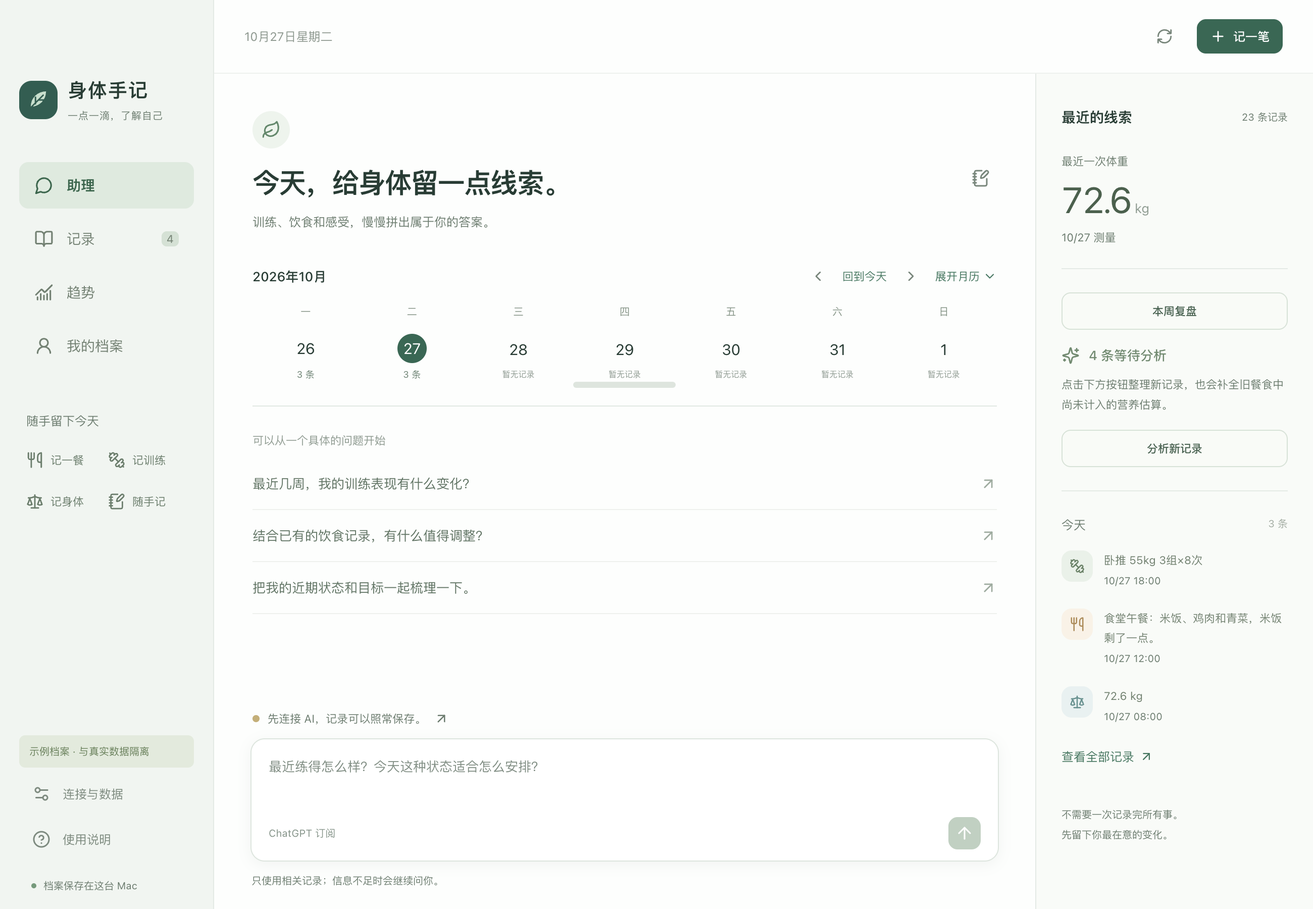
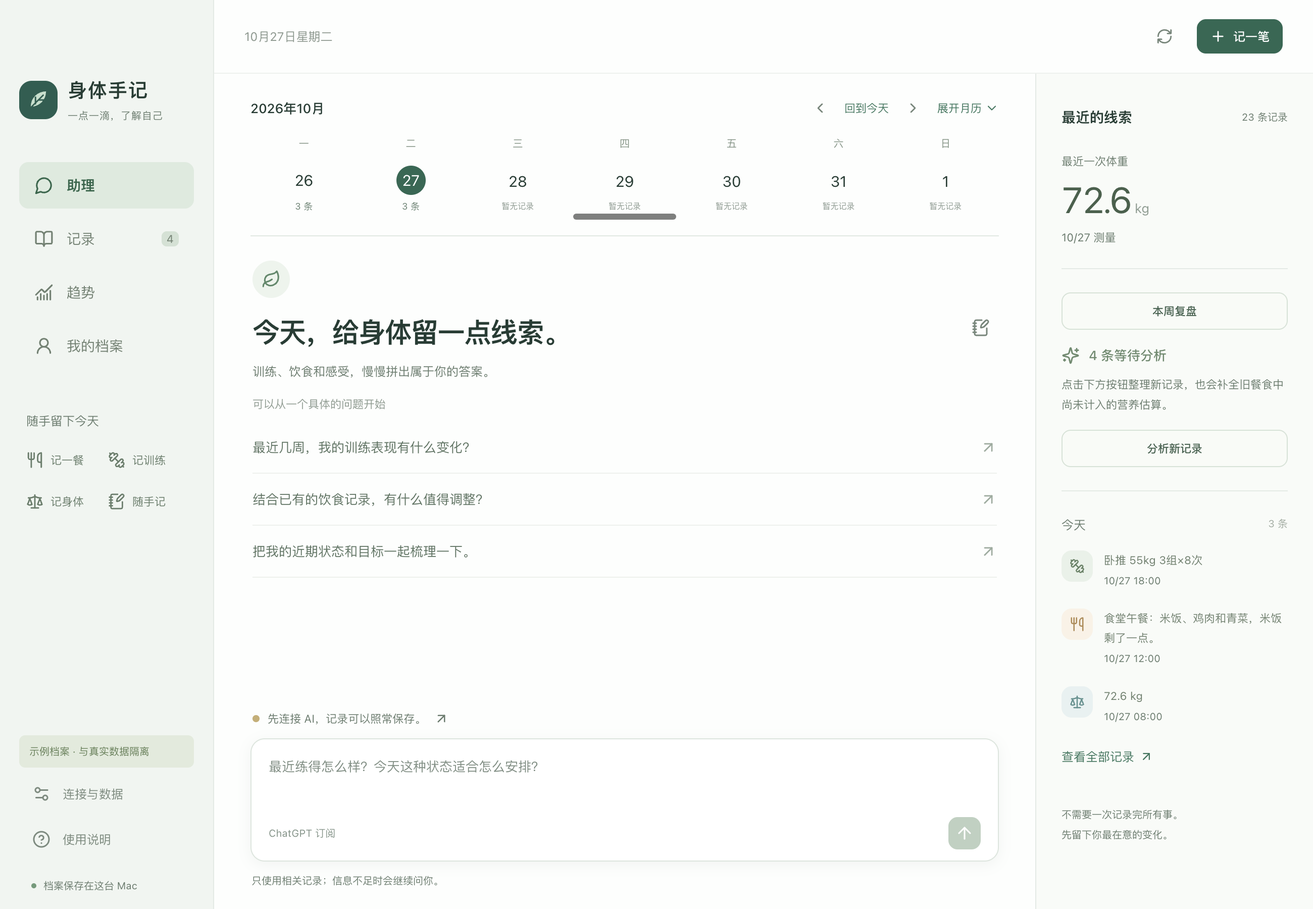
Home layout: pin calendar above chat scroll (v0.1.19)

diff --git a/src/style.css b/src/style.css
@@ -1,7 +1,7 @@
 @import url('./ui.css');
 :root{font-family:-apple-system,BlinkMacSystemFont,"PingFang SC","Hiragino Sans GB",sans-serif;color:#223d34;background:#f7faf9;font-synthesis:none;text-rendering:optimizeLegibility;-webkit-font-smoothing:antialiased;font-size:14px;font-weight:400;--ink:#223d34;--muted:#75867e;--green:#286853;--line:#e3eae5;--paper:#fff;--tint:#eaf2ed;--soft:#f4f7f5}
 *{box-sizing:border-box}body{margin:0}button,input,select,textarea{font:inherit}button{cursor:pointer;color:inherit}button:disabled{cursor:not-allowed;opacity:.45}button,a,input,textarea,select{-webkit-tap-highlight-color:transparent}button:focus-visible,a:focus-visible,input:focus-visible,textarea:focus-visible,select:focus-visible,summary:focus-visible{outline:3px solid #6da58e;outline-offset:3px}button{border:0;background:none}h1,h2,h3,p{margin-top:0}h1{font-size:29px;line-height:1.45;font-weight:600;letter-spacing:-.8px}h2{font-size:17px;font-weight:600}h3{font-size:15px;font-weight:600}p{line-height:1.8}input,select,textarea{border:1px solid #dbe5de;background:#fff;border-radius:9px;color:var(--ink);padding:11px 13px;min-width:0;outline:none}textarea{resize:vertical;width:100%;line-height:1.8}input:focus,select:focus,textarea:focus{border-color:#6a9b83}input::placeholder,textarea::placeholder{color:#93a097}input[type=checkbox]{accent-color:var(--green);width:16px;height:16px}select{cursor:pointer}summary{cursor:pointer;color:#587165;font-size:13px;padding:10px 0}.muted{color:var(--muted)}.small{font-size:12px}.small-label{font-size:12px;color:#819188}.button{display:inline-flex;align-items:center;justify-content:center;gap:7px;min-height:39px;padding:10px 16px;border-radius:9px;font-size:13px;font-weight:500;transition:background .12s}.button.primary{background:var(--green);color:white}.button.primary:hover:not(:disabled){background:#1b5140}.button.secondary{background:#fff;border:1px solid #dce5df;color:#41624f}.button.secondary:hover:not(:disabled){background:#f1f6f2}.button.small-button{min-height:34px;padding:8px 13px;font-size:12px}.text-button{display:inline-flex;align-items:center;gap:5px;color:#34785e;font-size:12px;padding:4px 0}.text-button:hover{text-decoration:underline;text-underline-offset:3px}.icon-button{width:32px;height:32px;display:inline-flex;align-items:center;justify-content:center;border-radius:8px;color:#74877a;flex-shrink:0}.icon-button:hover{background:#edf3ee}.icon-button.danger:hover{color:#aa5752;background:#fff0ed}.button-row{display:flex;align-items:center;gap:10px}.button-row.wrap{flex-wrap:wrap}.field{display:flex;flex-direction:column;gap:8px;font-size:12px;color:#627569;margin:18px 0}.field input,.field select,.field textarea{font-size:14px;color:var(--ink);width:100%}.field-grid{display:grid;grid-template-columns:1fr 1fr;gap:16px}.field-grid.three{grid-template-columns:1fr 1fr 1.3fr}.check{display:flex;align-items:center;gap:8px}.check input{flex-shrink:0}.search{display:flex;align-items:center;gap:7px;padding:0 11px;color:#8c9b92;border:1px solid var(--line);border-radius:9px;background:white}.search input{border:0;background:transparent;padding:10px 0;width:100%;outline:none}.search:focus-within{outline:2px solid #94b5a4}.status{font-size:11px;padding:4px 8px;border-radius:5px;background:#edf4ee;color:#548066;white-space:nowrap}.status.pending{background:#f6f0df;color:#8c7847}.status.needs_info{background:#f7ece2;color:#a87542}.status.muted{background:#f0f1ef;color:#8d978f}.icon-badge{height:39px;width:39px;display:inline-flex;align-items:center;justify-content:center;border-radius:12px;flex-shrink:0}.icon-badge.meal{background:#fbf2e6;color:#b28951}.icon-badge.training{background:#e9f1e8;color:#658366}.icon-badge.body{background:#e7f1f1;color:#5c9290}.icon-badge.note{background:#eeeefa;color:#8880aa}
-.app-shell{height:100vh;display:flex;overflow:hidden}.sidebar{width:212px;flex-shrink:0;border-right:1px solid var(--line);background:#f0f5f1;display:flex;flex-direction:column;padding:0 19px 16px}.drag-region{height:61px;-webkit-app-region:drag;flex-shrink:0}.brand{display:flex;align-items:center;gap:10px;margin:15px 0 39px}.brand svg{width:38px;height:38px;flex-shrink:0}.brand strong{font-size:19px;letter-spacing:1px;font-weight:600}.brand span{display:block;font-size:10px;color:#85968a;margin-top:5px;letter-spacing:.5px}.sidebar nav{display:flex;flex-direction:column;gap:7px}.sidebar nav button{display:flex;align-items:center;gap:13px;padding:13px 15px;text-align:left;color:#708272;border-radius:9px;font-size:14px}.sidebar nav button:hover{background:#e7efe8}.sidebar nav button.active{background:#dceade;color:#2d674b;font-weight:600}.sidebar nav small{margin-left:auto;background:#d2e2d4;border-radius:5px;padding:1px 5px;font-size:11px}.sidebar-note{margin-top:43px;padding:0 7px}.capture-grid{display:grid;grid-template-columns:1fr 1fr;gap:14px 3px;margin-top:17px}.capture-grid button{display:flex;align-items:center;gap:7px;font-size:11px;color:#667e6b;padding:5px 0}.capture-grid button:hover{color:#275e43}.sidebar-bottom{margin-top:auto;display:flex;flex-direction:column;gap:7px;padding-top:26px}.sidebar-bottom>button{display:flex;align-items:center;gap:12px;text-align:left;font-size:12px;padding:10px 13px;color:#7a8b7e;border-radius:7px}.sidebar-bottom>button:hover,.sidebar-bottom>button.active{background:#e3eee4;color:#32664a}.local-status{display:flex;align-items:center;gap:7px;margin:13px 0 0 12px;font-size:10px;color:#829286}.local-status span{height:5px;width:5px;background:#6c9b79;border-radius:50%}.demo-label{font-size:10px;line-height:1.8;background:#e1eadc;color:#638157;padding:7px 10px;border-radius:6px}.workspace{flex:1;min-width:0;display:flex;flex-direction:column;background:#fdfefd}.topbar{height:73px;flex-shrink:0;padding:15px 30px;display:flex;align-items:center;justify-content:space-between;border-bottom:1px solid #edf1ee;color:#8b988e;font-size:12px;-webkit-app-region:drag}.topbar>div{display:flex;align-items:center;gap:16px;-webkit-app-region:no-drag}.assistant-layout{display:flex;flex:1;min-height:0}.chat-pane{min-width:0;flex:1;display:flex;flex-direction:column;padding:0 36px}.chat-scroll{overflow-y:auto;flex:1;padding:37px 2px 22px;scrollbar-width:thin;scrollbar-color:#dce5de transparent}.assistant-heading{display:flex;justify-content:space-between;align-items:center}.assistant-heading h1{font-size:27px;margin:14px 0 9px}.assistant-heading p{color:#849488;font-size:12px}.leaf-mark{display:inline-flex;color:#5a896a;padding:9px;border-radius:50%;background:#edf4ed}.week-strip{display:flex;justify-content:space-between;border-bottom:1px solid var(--line);padding:22px 2px 22px;margin:3px 0 25px}.week-strip>button{display:flex;flex-direction:column;align-items:center;gap:11px;min-width:36px}.week-strip span{font-size:10px;color:#9aa59e}.week-strip strong{font-size:16px;font-weight:400;color:#758278;display:flex;align-items:center;justify-content:center;width:32px;height:32px;border-radius:50%}.week-strip .today strong{background:#286853;color:#fff}.week-strip i{width:4px;height:4px;border-radius:50%;background:#dfe7e1}.week-strip .recorded i{background:#73a580}.conversation-starters>p{font-size:11px;color:#8c9b90;margin-bottom:7px}.conversation-starters button{width:100%;display:flex;justify-content:space-between;align-items:center;text-align:left;padding:16px 0;border-bottom:1px solid #edf1ed;font-size:13px;color:#5c7563}.conversation-starters button svg{color:#9bac9e}.conversation-starters button:hover{color:var(--green)}.first-step{display:flex;align-items:flex-start;gap:13px;background:#f3f7f3;margin-top:26px;border-radius:10px;padding:18px;color:#6b866f}.first-step strong{font-size:13px;font-weight:500}.first-step p{font-size:12px;margin:7px 0;color:#809385}.first-step>svg{flex-shrink:0}.composer-area{padding:13px 0 21px;flex-shrink:0;background:#fdfefd}.composer{border:1px solid #dbe5dd;background:#fff;border-radius:14px;padding:15px 17px 11px;box-shadow:0 3px 14px #284c3710}.composer:focus-within{border-color:#84ac8f;box-shadow:0 3px 18px #284c3712}.composer textarea{border:0;border-radius:0;padding:0;outline:none!important;resize:none;min-height:55px;font-size:13px}.composer textarea::placeholder{color:#a4afa7}.composer-bottom{display:flex;align-items:center;justify-content:space-between;margin-top:4px}.composer-bottom>span{font-size:10px;color:#829589}.send-button{display:flex;align-items:center;justify-content:center;width:32px;height:32px;border-radius:9px;background:#2c6d54;color:white}.send-button:disabled{background:#bdd1c1;opacity:1}.composer-caption{margin:12px 1px 0;display:flex;align-items:center;justify-content:space-between;font-size:10px;color:#9aa79c}.connection-prompt{display:flex;align-items:center;gap:8px;padding:0 2px 12px;font-size:11px;color:#78917e}.connection-prompt svg{margin-left:auto}.connection-dot{width:7px;height:7px;border-radius:50%;background:#c8ae71;display:inline-block;flex-shrink:0}.connection-dot.online{background:#6b9f7b}.today-panel{width:275px;border-left:1px solid var(--line);background:#f9fbf8;padding:33px 25px 20px;flex-shrink:0;overflow-y:auto}.today-heading{display:flex;justify-content:space-between;align-items:center}.today-heading h2{font-size:14px;margin:0}.today-heading span{font-size:10px;color:#9aa79c}.today-number{padding:26px 0 23px;display:flex;flex-direction:column;gap:9px;border-bottom:1px solid var(--line)}.today-number>span{font-size:11px;color:#8f9d91}.today-number>strong{font-size:36px;font-weight:400;letter-spacing:-1.4px;color:#45614b;font-variant-numeric:tabular-nums}.today-number small{font-size:13px;font-weight:400;letter-spacing:0;color:#8e9e93}.analysis-shortcut{padding:23px 0;border-bottom:1px solid var(--line)}.analysis-shortcut>div{display:flex;align-items:center;gap:9px;color:#6b8b6f}.analysis-shortcut strong{font-size:13px;font-weight:500}.analysis-shortcut p{font-size:11px;color:#99a69c;margin:10px 0 15px}.analysis-shortcut .button{font-size:11px;min-height:33px;width:100%;background:#f8fbf7;border-color:#d5e2d6}.timeline-heading{display:flex;justify-content:space-between;margin:25px 0 17px;font-size:12px;color:#7b8d7d}.timeline-heading small{font-size:10px;color:#a0aca1}.mini-timeline>button{display:flex;align-items:flex-start;text-align:left;gap:11px;width:100%;padding:0 0 22px}.mini-timeline .icon-badge{width:31px;height:31px;border-radius:10px}.mini-timeline svg{width:15px}.mini-timeline strong{font-size:11px;display:-webkit-box;-webkit-box-orient:vertical;-webkit-line-clamp:2;overflow:hidden;font-weight:400;line-height:1.8;color:#6e826f}.mini-timeline small{font-size:10px;color:#a3afa6;display:block;margin-top:4px}.mini-timeline>p{font-size:12px;color:#8c9e90;line-height:2}.today-footnote{font-size:10px;color:#a4b0a6;line-height:2;margin-top:35px}.message{margin:20px 0 30px;font-size:14px}.message-author{display:flex;align-items:center;gap:8px;margin-bottom:11px;color:#68816e;font-size:11px}.message-author>svg{width:24px;height:24px}.message-author>span{margin-left:auto;color:#a3ada5;font-size:10px}.message.user .rich-text{background:#edf4ee;padding:16px 20px;border-radius:12px 12px 3px 12px}.message.user .message-author{justify-content:flex-end}.message.user .message-author .text-button{font-size:10px;margin-left:6px}.rich-text{white-space:pre-wrap;line-height:1.95;overflow-wrap:anywhere;color:#435c49}.source-link{display:inline-flex;align-items:center;gap:2px;background:#edf3ee;color:#5c8b66;border-radius:4px;padding:1px 5px;font-size:10px;vertical-align:middle;margin:0 4px}.stale-label{font-size:11px;color:#a08250;background:#fbf5e8;padding:8px 10px;margin-bottom:10px;border-radius:6px}.failed-answer{padding:15px 18px;background:#fbf4eb;border:1px solid #eee1cf;border-radius:10px;font-size:12px;color:#8a7352}.failed-answer p{margin:0 0 7px}.thinking{display:flex;align-items:center;gap:4px;color:#9aa69d;font-size:11px;padding:6px 0}.thinking span{height:4px;width:4px;background:#a9bba9;border-radius:50%;animation:pulse 1.4s infinite}.thinking span:nth-child(2){animation-delay:.2s}.thinking span:nth-child(3){animation-delay:.4s;margin-right:8px}@keyframes pulse{50%{opacity:.25}}
+.app-shell{height:100vh;display:flex;overflow:hidden}.sidebar{width:212px;flex-shrink:0;border-right:1px solid var(--line);background:#f0f5f1;display:flex;flex-direction:column;padding:0 19px 16px}.drag-region{height:61px;-webkit-app-region:drag;flex-shrink:0}.brand{display:flex;align-items:center;gap:10px;margin:15px 0 39px}.brand svg{width:38px;height:38px;flex-shrink:0}.brand strong{font-size:19px;letter-spacing:1px;font-weight:600}.brand span{display:block;font-size:10px;color:#85968a;margin-top:5px;letter-spacing:.5px}.sidebar nav{display:flex;flex-direction:column;gap:7px}.sidebar nav button{display:flex;align-items:center;gap:13px;padding:13px 15px;text-align:left;color:#708272;border-radius:9px;font-size:14px}.sidebar nav button:hover{background:#e7efe8}.sidebar nav button.active{background:#dceade;color:#2d674b;font-weight:600}.sidebar nav small{margin-left:auto;background:#d2e2d4;border-radius:5px;padding:1px 5px;font-size:11px}.sidebar-note{margin-top:43px;padding:0 7px}.capture-grid{display:grid;grid-template-columns:1fr 1fr;gap:14px 3px;margin-top:17px}.capture-grid button{display:flex;align-items:center;gap:7px;font-size:11px;color:#667e6b;padding:5px 0}.capture-grid button:hover{color:#275e43}.sidebar-bottom{margin-top:auto;display:flex;flex-direction:column;gap:7px;padding-top:26px}.sidebar-bottom>button{display:flex;align-items:center;gap:12px;text-align:left;font-size:12px;padding:10px 13px;color:#7a8b7e;border-radius:7px}.sidebar-bottom>button:hover,.sidebar-bottom>button.active{background:#e3eee4;color:#32664a}.local-status{display:flex;align-items:center;gap:7px;margin:13px 0 0 12px;font-size:10px;color:#829286}.local-status span{height:5px;width:5px;background:#6c9b79;border-radius:50%}.demo-label{font-size:10px;line-height:1.8;background:#e1eadc;color:#638157;padding:7px 10px;border-radius:6px}.workspace{flex:1;min-width:0;display:flex;flex-direction:column;background:#fdfefd}.topbar{height:73px;flex-shrink:0;padding:15px 30px;display:flex;align-items:center;justify-content:space-between;border-bottom:1px solid #edf1ee;color:#8b988e;font-size:12px;-webkit-app-region:drag}.topbar>div{display:flex;align-items:center;gap:16px;-webkit-app-region:no-drag}.assistant-layout{display:flex;flex:1;min-height:0}.chat-pane{min-width:0;flex:1;display:flex;flex-direction:column;padding:0 36px}.chat-scroll{overflow-y:auto;flex:1;padding:24px 2px 22px;scrollbar-width:thin;scrollbar-color:#dce5de transparent}.assistant-heading{display:flex;justify-content:space-between;align-items:center}.assistant-heading h1{font-size:27px;margin:14px 0 9px}.assistant-heading p{color:#849488;font-size:12px}.leaf-mark{display:inline-flex;color:#5a896a;padding:9px;border-radius:50%;background:#edf4ed}.week-strip{display:flex;justify-content:space-between;border-bottom:1px solid var(--line);padding:22px 2px 22px;margin:3px 0 25px}.week-strip>button{display:flex;flex-direction:column;align-items:center;gap:11px;min-width:36px}.week-strip span{font-size:10px;color:#9aa59e}.week-strip strong{font-size:16px;font-weight:400;color:#758278;display:flex;align-items:center;justify-content:center;width:32px;height:32px;border-radius:50%}.week-strip .today strong{background:#286853;color:#fff}.week-strip i{width:4px;height:4px;border-radius:50%;background:#dfe7e1}.week-strip .recorded i{background:#73a580}.conversation-starters>p{font-size:11px;color:#8c9b90;margin-bottom:7px}.conversation-starters button{width:100%;display:flex;justify-content:space-between;align-items:center;text-align:left;padding:16px 0;border-bottom:1px solid #edf1ed;font-size:13px;color:#5c7563}.conversation-starters button svg{color:#9bac9e}.conversation-starters button:hover{color:var(--green)}.first-step{display:flex;align-items:flex-start;gap:13px;background:#f3f7f3;margin-top:26px;border-radius:10px;padding:18px;color:#6b866f}.first-step strong{font-size:13px;font-weight:500}.first-step p{font-size:12px;margin:7px 0;color:#809385}.first-step>svg{flex-shrink:0}.composer-area{padding:13px 0 21px;flex-shrink:0;background:#fdfefd}.composer{border:1px solid #dbe5dd;background:#fff;border-radius:14px;padding:15px 17px 11px;box-shadow:0 3px 14px #284c3710}.composer:focus-within{border-color:#84ac8f;box-shadow:0 3px 18px #284c3712}.composer textarea{border:0;border-radius:0;padding:0;outline:none!important;resize:none;min-height:55px;font-size:13px}.composer textarea::placeholder{color:#a4afa7}.composer-bottom{display:flex;align-items:center;justify-content:space-between;margin-top:4px}.composer-bottom>span{font-size:10px;color:#829589}.send-button{display:flex;align-items:center;justify-content:center;width:32px;height:32px;border-radius:9px;background:#2c6d54;color:white}.send-button:disabled{background:#bdd1c1;opacity:1}.composer-caption{margin:12px 1px 0;display:flex;align-items:center;justify-content:space-between;font-size:10px;color:#9aa79c}.connection-prompt{display:flex;align-items:center;gap:8px;padding:0 2px 12px;font-size:11px;color:#78917e}.connection-prompt svg{margin-left:auto}.connection-dot{width:7px;height:7px;border-radius:50%;background:#c8ae71;display:inline-block;flex-shrink:0}.connection-dot.online{background:#6b9f7b}.today-panel{width:275px;border-left:1px solid var(--line);background:#f9fbf8;padding:33px 25px 20px;flex-shrink:0;overflow-y:auto}.today-heading{display:flex;justify-content:space-between;align-items:center}.today-heading h2{font-size:14px;margin:0}.today-heading span{font-size:10px;color:#9aa79c}.today-number{padding:26px 0 23px;display:flex;flex-direction:column;gap:9px;border-bottom:1px solid var(--line)}.today-number>span{font-size:11px;color:#8f9d91}.today-number>strong{font-size:36px;font-weight:400;letter-spacing:-1.4px;color:#45614b;font-variant-numeric:tabular-nums}.today-number small{font-size:13px;font-weight:400;letter-spacing:0;color:#8e9e93}.analysis-shortcut{padding:23px 0;border-bottom:1px solid var(--line)}.analysis-shortcut>div{display:flex;align-items:center;gap:9px;color:#6b8b6f}.analysis-shortcut strong{font-size:13px;font-weight:500}.analysis-shortcut p{font-size:11px;color:#99a69c;margin:10px 0 15px}.analysis-shortcut .button{font-size:11px;min-height:33px;width:100%;background:#f8fbf7;border-color:#d5e2d6}.timeline-heading{display:flex;justify-content:space-between;margin:25px 0 17px;font-size:12px;color:#7b8d7d}.timeline-heading small{font-size:10px;color:#a0aca1}.mini-timeline>button{display:flex;align-items:flex-start;text-align:left;gap:11px;width:100%;padding:0 0 22px}.mini-timeline .icon-badge{width:31px;height:31px;border-radius:10px}.mini-timeline svg{width:15px}.mini-timeline strong{font-size:11px;display:-webkit-box;-webkit-box-orient:vertical;-webkit-line-clamp:2;overflow:hidden;font-weight:400;line-height:1.8;color:#6e826f}.mini-timeline small{font-size:10px;color:#a3afa6;display:block;margin-top:4px}.mini-timeline>p{font-size:12px;color:#8c9e90;line-height:2}.today-footnote{font-size:10px;color:#a4b0a6;line-height:2;margin-top:35px}.message{margin:20px 0 30px;font-size:14px}.message-author{display:flex;align-items:center;gap:8px;margin-bottom:11px;color:#68816e;font-size:11px}.message-author>svg{width:24px;height:24px}.message-author>span{margin-left:auto;color:#a3ada5;font-size:10px}.message.user .rich-text{background:#edf4ee;padding:16px 20px;border-radius:12px 12px 3px 12px}.message.user .message-author{justify-content:flex-end}.message.user .message-author .text-button{font-size:10px;margin-left:6px}.rich-text{white-space:pre-wrap;line-height:1.95;overflow-wrap:anywhere;color:#435c49}.source-link{display:inline-flex;align-items:center;gap:2px;background:#edf3ee;color:#5c8b66;border-radius:4px;padding:1px 5px;font-size:10px;vertical-align:middle;margin:0 4px}.stale-label{font-size:11px;color:#a08250;background:#fbf5e8;padding:8px 10px;margin-bottom:10px;border-radius:6px}.failed-answer{padding:15px 18px;background:#fbf4eb;border:1px solid #eee1cf;border-radius:10px;font-size:12px;color:#8a7352}.failed-answer p{margin:0 0 7px}.thinking{display:flex;align-items:center;gap:4px;color:#9aa69d;font-size:11px;padding:6px 0}.thinking span{height:4px;width:4px;background:#a9bba9;border-radius:50%;animation:pulse 1.4s infinite}.thinking span:nth-child(2){animation-delay:.2s}.thinking span:nth-child(3){animation-delay:.4s;margin-right:8px}@keyframes pulse{50%{opacity:.25}}
 .page-scroll{overflow-y:auto;padding:36px 40px 60px;flex:1;scrollbar-width:thin;scrollbar-color:#dce5de transparent}.page-heading{display:flex;justify-content:space-between;gap:20px;align-items:center;margin-bottom:30px}.page-heading h1{margin-bottom:8px;font-size:27px}.page-heading p{color:#8c9b90;font-size:12px;margin-bottom:0}.records-toolbar{display:flex;align-items:center;justify-content:space-between;gap:15px;margin-bottom:17px}.filter-tabs{display:flex;align-items:center;gap:4px}.filter-tabs button{padding:8px 13px;border-radius:7px;font-size:12px;color:#8a9a8e}.filter-tabs button.selected{background:#e7f0e8;color:#457451}.records-toolbar .search{width:250px;font-size:12px}.records-list{margin-bottom:25px;border-top:1px solid var(--line)}.record-row{display:flex;align-items:center;gap:15px;padding:21px 10px 21px 2px;width:100%;text-align:left;border-bottom:1px solid #eaf0eb}.record-row:hover{background:#f7faf6}.record-copy{min-width:0;flex:1}.record-title{font-size:13px;overflow:hidden;display:block;text-overflow:ellipsis;white-space:nowrap;color:#506c56}.record-meta{display:block;margin-top:9px;font-size:10px;color:#9aa79c}.row-arrow{color:#b0bdb2;margin-left:10px}.empty-state{text-align:center;padding:70px 25px;color:#8ca18d}.empty-state svg{margin-bottom:18px}.empty-state h3{color:#6d866e;font-size:16px;font-weight:500}.empty-state p{font-size:12px}.empty-state .button{margin-top:12px}.boot-screen{height:100vh;display:flex;align-items:center;justify-content:center;flex-direction:column;gap:10px}.boot-screen>svg{width:60px;margin-bottom:14px}.boot-screen h1{font-size:25px;letter-spacing:2px;margin:0}.boot-screen p{font-size:13px;color:#829688;max-width:480px;padding:0 20px;text-align:center}.toast{position:fixed;z-index:100;bottom:25px;left:50%;transform:translateX(-50%);display:flex;align-items:center;gap:18px;padding:10px 12px 10px 20px;background:#294a38;color:#f5faf4;border-radius:11px;box-shadow:0 5px 25px #12382025;font-size:12px;max-width:680px;line-height:1.8}.toast .icon-button{color:#c6d6c7}.toast .icon-button:hover{background:#3e5e49}
 @media(max-width:1180px){.today-panel{width:235px;padding:30px 20px}.chat-pane{padding:0 27px}.assistant-heading h1{font-size:24px}.sidebar{width:195px;padding-left:16px;padding-right:16px}.page-scroll{padding:32px 28px 50px}.field-grid.three{grid-template-columns:1fr 1fr}.field-grid.three>.field:last-child{grid-column:1/-1}}
 @media(max-width:1000px){.today-panel{display:none}.chat-pane{padding:0 42px}.page-heading{align-items:flex-start}.page-heading .button-row{flex-direction:column;align-items:stretch}.records-toolbar{align-items:flex-start;flex-direction:column}.records-toolbar .search{width:100%}}
@@ -12,7 +12,7 @@
 .week-strip>button{min-width:44px;min-height:76px;padding:6px 8px;border-radius:10px;background:transparent;border:0;cursor:pointer}.week-strip>button:hover{background:#edf4ee}.week-strip>button:focus-visible{outline:2px solid #286853;outline-offset:3px}.date-filter{display:flex;gap:18px;align-items:center;flex-wrap:wrap;padding:12px 0 20px}.date-filter .field{margin:0;min-width:165px}.date-filter strong{font-size:13px;font-weight:500;color:#45614b}.date-resolution{padding:12px 16px;background:#edf4ee;border-left:3px solid #739c82;margin:14px 0;font-size:12px}.date-resolution p{margin:6px 0;color:#657d6b}
 
 .week-strip{position:sticky;top:0;z-index:2;background:#fdfefd}
-.journal-calendar{position:sticky;top:0;z-index:2;background:#fdfefd;padding:15px 0 16px;border-bottom:1px solid #e0e8e2;margin-bottom:24px}.calendar-controls,.calendar-controls>div{display:flex;align-items:center;gap:8px}.calendar-controls{justify-content:space-between;margin-bottom:12px}.calendar-controls>strong{font-size:13px;font-weight:500;white-space:nowrap}.calendar-controls .text-button{font-size:11px;white-space:nowrap}.calendar-weekdays,.calendar-month{display:grid;grid-template-columns:repeat(7,minmax(0,1fr))}.calendar-weekdays{color:#7c9080;text-align:center;font-size:10px;margin-bottom:6px}.calendar-weeks{display:flex;overflow-x:auto;scroll-snap-type:x mandatory;scrollbar-width:thin;overscroll-behavior-x:contain}.calendar-week{flex:0 0 100%;display:grid;grid-template-columns:repeat(7,minmax(0,1fr));scroll-snap-align:start}.calendar-day{display:flex;flex-direction:column;align-items:center;justify-content:center;gap:5px;border-radius:8px;min-width:0;min-height:64px;background:transparent}.calendar-day strong{font-size:15px;font-weight:400;width:29px;height:29px;display:flex;align-items:center;justify-content:center;border-radius:50%}.calendar-day small{font-size:9px;color:#668271}.calendar-day .empty-day{font-size:8px;color:#8a998f}.calendar-day:hover{background:#edf4ee}.calendar-day.today strong{background:#286853;color:white}.calendar-day.outside{opacity:.42}.calendar-expand{display:flex;align-items:center;gap:3px}.memory-receipt,.training-draft-link{background:#eff6f0;border-left:3px solid #739e80;padding:12px 15px;margin-top:12px;font-size:12px}.memory-receipt details{margin:6px 0}.memory-receipt p{margin:6px 0}.weekly-review{margin-bottom:16px}.training-groups h4{font-size:14px;margin:20px 0 10px}.training-groups h4 small{font-size:10px;color:#987543;margin-left:10px;font-weight:400}.table-sub{display:block;font-size:10px;color:#718275;max-width:320px;white-space:normal;margin-top:4px}.training-edit-row{border-bottom:1px solid #e0e8e2;padding:15px 0}.training-edit-row>strong{display:block;margin-bottom:12px}.exercise-alias-row{display:grid;grid-template-columns:minmax(120px,1fr) minmax(150px,1fr) auto;gap:16px;align-items:center;padding:12px 0;border-bottom:1px solid #e0e8e2}.exercise-alias-row .field{margin:0}.exercise-alias-row small{display:block;font-size:10px;color:#987543;margin-top:5px}.coach-panel{padding:24px 0;border-bottom:1px solid #e0e8e2}.coach-panel .section-title{justify-content:space-between}.coach-panel details{margin-top:15px}.coach-panel pre{white-space:pre-wrap;font:12px/1.8 inherit}.markdown{white-space:normal}.markdown p{white-space:pre-wrap;margin:9px 0}.markdown h3{font-size:16px;margin:20px 0 10px}.markdown ul{margin:10px 0;padding-left:21px}.markdown table{font-size:12px}.markdown td,.markdown th{white-space:normal;min-width:70px}.markdown .table-wrap{margin:12px 0}.training-toolbar{flex-wrap:wrap;gap:16px}.training-toolbar label{display:flex;flex-direction:column;gap:7px}.training-toolbar .button{align-self:flex-end}
+.journal-calendar{flex-shrink:0;padding:18px 0 14px;border-bottom:1px solid #e0e8e2;margin-bottom:0}.calendar-controls,.calendar-controls>div{display:flex;align-items:center;gap:8px}.calendar-controls{justify-content:space-between;margin-bottom:12px}.calendar-controls>strong{font-size:13px;font-weight:500;white-space:nowrap}.calendar-controls .text-button{font-size:11px;white-space:nowrap}.calendar-weekdays,.calendar-month{display:grid;grid-template-columns:repeat(7,minmax(0,1fr))}.calendar-weekdays{color:#7c9080;text-align:center;font-size:10px;margin-bottom:6px}.calendar-weeks{display:flex;overflow-x:auto;scroll-snap-type:x mandatory;scrollbar-width:thin;overscroll-behavior-x:contain}.calendar-week{flex:0 0 100%;display:grid;grid-template-columns:repeat(7,minmax(0,1fr));scroll-snap-align:start}.calendar-day{display:flex;flex-direction:column;align-items:center;justify-content:center;gap:5px;border-radius:8px;min-width:0;min-height:64px;background:transparent}.calendar-day strong{font-size:15px;font-weight:400;width:29px;height:29px;display:flex;align-items:center;justify-content:center;border-radius:50%}.calendar-day small{font-size:9px;color:#668271}.calendar-day .empty-day{font-size:8px;color:#8a998f}.calendar-day:hover{background:#edf4ee}.calendar-day.today strong{background:#286853;color:white}.calendar-day.outside{opacity:.42}.calendar-expand{display:flex;align-items:center;gap:3px}.memory-receipt,.training-draft-link{background:#eff6f0;border-left:3px solid #739e80;padding:12px 15px;margin-top:12px;font-size:12px}.memory-receipt details{margin:6px 0}.memory-receipt p{margin:6px 0}.weekly-review{margin-bottom:16px}.training-groups h4{font-size:14px;margin:20px 0 10px}.training-groups h4 small{font-size:10px;color:#987543;margin-left:10px;font-weight:400}.table-sub{display:block;font-size:10px;color:#718275;max-width:320px;white-space:normal;margin-top:4px}.training-edit-row{border-bottom:1px solid #e0e8e2;padding:15px 0}.training-edit-row>strong{display:block;margin-bottom:12px}.exercise-alias-row{display:grid;grid-template-columns:minmax(120px,1fr) minmax(150px,1fr) auto;gap:16px;align-items:center;padding:12px 0;border-bottom:1px solid #e0e8e2}.exercise-alias-row .field{margin:0}.exercise-alias-row small{display:block;font-size:10px;color:#987543;margin-top:5px}.coach-panel{padding:24px 0;border-bottom:1px solid #e0e8e2}.coach-panel .section-title{justify-content:space-between}.coach-panel details{margin-top:15px}.coach-panel pre{white-space:pre-wrap;font:12px/1.8 inherit}.markdown{white-space:normal}.markdown p{white-space:pre-wrap;margin:9px 0}.markdown h3{font-size:16px;margin:20px 0 10px}.markdown ul{margin:10px 0;padding-left:21px}.markdown table{font-size:12px}.markdown td,.markdown th{white-space:normal;min-width:70px}.markdown .table-wrap{margin:12px 0}.training-toolbar{flex-wrap:wrap;gap:16px}.training-toolbar label{display:flex;flex-direction:column;gap:7px}.training-toolbar .button{align-self:flex-end}
 @media(max-width:1050px){.calendar-controls{gap:4px}.calendar-controls>div{gap:2px}.calendar-controls .icon-button{width:28px}.calendar-day small{font-size:8px}}
 
 .classification-footer{justify-content:space-between;gap:14px;align-items:center;flex-wrap:wrap}.classification-feedback{flex:1;min-width:180px;font-size:11px;color:#60786a}.classification-feedback p{margin:3px 0;line-height:1.7}.classification-error,.exercise-alias-row small.classification-error{color:#a24f42}.exercise-alias-row small.classification-saved{color:#34785e}.classification-busy{padding:10px 14px;background:#f6f0df;border-radius:8px;font-size:12px;color:#826f3e}.classification-footer .button-row{flex-shrink:0}

diff --git a/docs/使用说明.html b/docs/使用说明.html
@@ -1,6 +1,6 @@
 <!doctype html><html lang="zh-CN"><meta charset="utf-8"><meta name="viewport" content="width=device-width,initial-scale=1"><title>身体手记 · 使用说明</title>
 <style>body{font:16px/1.9 -apple-system,BlinkMacSystemFont,"PingFang SC",sans-serif;background:#f5f8f6;color:#263b33;max-width:860px;margin:60px auto;padding:0 24px 80px}h1{font-size:40px;letter-spacing:-1px}h2{margin-top:42px;font-size:23px}p,li{color:#43594f}a{color:#21634a}code{font:13px/1.6 ui-monospace,monospace;background:#e8efeb;padding:3px 6px;overflow-wrap:anywhere}pre{white-space:pre-wrap;background:#e8efeb;padding:20px;border-radius:12px}.lead{font-size:19px}.tag{color:#527b67;letter-spacing:3px}.note{padding:18px 24px;border-left:3px solid #6f957e;background:#edf2ee}table{width:100%;border-collapse:collapse}td,th{text-align:left;padding:12px;border-bottom:1px solid #dbe5df}strong{color:#244e3c}</style>
-<div class="tag">BODY JOURNAL / v0.1.16</div><h1>身体的变化，从一点线索开始。</h1><p class="lead">手机负责随手记录，Mac 把记录连成持续更新的个人档案。</p>
+<div class="tag">BODY JOURNAL / v0.1.19</div><h1>身体的变化，从一点线索开始。</h1><p class="lead">手机负责随手记录，Mac 把记录连成持续更新的个人档案。</p>
 <h2>第一次打开</h2><ol><li>打开<strong>身体手记</strong>。先去“我的档案”检查目标和已知偏好；能量、蛋白质目标可以暂时留空。</li><li>进入“连接与数据”，点击 <strong>Continue with ChatGPT</strong>，在官方页面完成登录和订阅额度授权。返回应用后选择账号提供的模型，保存连接设置。</li><li>点击<strong>测试图文连接</strong>。应用只发送自带的测试图；成功后可以开始解析照片和提问。</li><li>如果选择 DeepSeek，输入 API 密钥、填写美元月预算，保存密钥和连接设置。默认预算为 0，不会发起付费请求。</li></ol>
 <p class="note">账号资格和可用模型以官方返回结果为准。登录不会导入你原来的 ChatGPT 对话或记忆。没有连接 AI 时，保存记录、训练格式解析、趋势、手动修正和备份仍然可用。</p>
 <h2>把四个入口放到 iPhone</h2><ol><li>Mac 的“连接与数据”中点击<strong>建立并打开收件箱</strong>。默认是 iCloud Drive 中的 <code>Shortcuts/BodyJournal/inbox</code>。</li><li>本仓库不含签名版：先用 <code>python3 scripts/build-shortcuts.py</code> 生成源文件，再用自己的 Apple 账号 <code>shortcuts sign --mode anyone</code> 签名（详见仓库 README）。然后在 iPhone“文件”中找到保存项目的位置下的 <code>shortcuts</code> 文件夹，分别点开四个已签名 <code>.shortcut</code> 文件。也可以从 Mac 将这四个文件 AirDrop 到手机。</li><li>每个安装页面都会问保存位置，统一选择上述 <strong>inbox</strong> 文件夹。不要选源码中的 <code>unsigned</code> 文件夹。</li><li>添加完成后，可在快捷指令详情中“添加到主屏幕”。照片与训练文字也可以从系统分享菜单传给对应快捷指令。</li><li>先运行“随手记”写一句测试文字；看到“已保存”后，在 Mac 打开身体手记，约 20 秒内自动检查，或手动点同步。确认这条记录出现。</li></ol>
@@ -15,7 +15,7 @@
 卧推 62.5kg 3组×8次</pre>
 <p>示例数值只用于说明格式。没有时间的历史笔记默认当天中午 12:00（上海时区），可在详情修改。保留原有记法也能先保存；像“3×8”或未说明单手/总重的哑铃记录会等待你确认，避免直接进入错误统计。</p>
 <h2>分析、追问和修正</h2><p>新增餐食和文字笔记会显示待分析。点击“分析新记录”或进入单条详情分析。AI 整理训练和食材，数值统计由本地程序计算。餐食结果包含营养来源、分量范围、主要假设和估算依据。</p><p>补充追问时，在记录详情修改原文并重新分析；也可以直接调整食材分量或训练组次。旧答案会显示“依据已变化”。助理回答旁的依据可点开原始记录，查看照片与修订历史。</p><p>可试着问：“最近几周训练怎么样？”“我已记录的餐食有什么可以调整？”“还需要补充哪些记录才能判断进展？”记录少、漏餐或分量不清楚时，回答应说明证据不足。体重和腰围变化本身不能证明肌肉或脂肪变化的原因。</p>
-<h2>日历、动作与首页对话</h2><p>首页日历默认一周，可左右滚动、切换前后周或回到今天；“展开月历”可按月浏览。点击日期打开当天记录，返回首页保留浏览位置。没有记录的日期显示“暂无记录”。</p><p>“趋势 → 训练表现”按标准动作名集中展示。哑铃动作统一按单只重量、杠铃与史密斯按报告总重、器械按器械标重统计，同一动作不再按口径拆成多份；哑铃肩推统一按坐姿统计；原文明确写“总重/双手合计”时保留总重。动作按胸、背、肩、腿、核心分区显示；点击“整理动作名称”可统一同义名称、手动指定计重口径、归档或取消归档动作、删除手动归类。删除训练记录可在训练表现表格行末点删除，在“记录”页勾选“显示已移除的记录”可恢复。改名后点击“保存此项”，或在底部点击“保存全部并关闭”；成功后显示“已保存”，失败原因会留在弹窗中。手动名称优先保留。轮次、递减档位和单手口径在组数据中保留。歧义动作需要你指定归类。</p><p>在首页直接说“以后每次最多练60分钟”或“更正一下……”，助理会按你的明确表达更新记忆；保存成功后显示回执，可撤销。首页粘贴训练日志只作讨论，点击“去记训练”才入档；不会直接改变训练进度。“本周复盘”由你点击触发，输出总结、滚动计划和调整重点。</p><p>“我的档案 → 个人执行规则”可查看和编辑完整训练、恢复与沟通规则。历史身高、体脂和既往不适只作参考，近期有日期的实际记录优先。</p><h2>补记日期与按日查看</h2><p>原文以“2026.10.20”“10月20日”或“昨天午餐”注明实际日期时，保存或补充记录后自动归到发生日。没有具体时刻时暂记当天12:00，并在详情标注。手动选择的日期优先保留。首页最近七天的日期可以点击，进入当天记录；记录页也可直接选日期或清除筛选。</p><h2>常用食物与补剂</h2><p>蛋白粉、肌酸等长期复用的包装食品，可以在“我的档案 → 常用食物与补剂”里添加：填写名称、品牌口味（可选）、每份克数和每份的能量/蛋白质/碳水/脂肪。之后分析餐食时，只要食材名称与它一致，营养就按包装标签在本地计算，并在记录里注明来源。也可以在首页直接说“记住我的补剂是……每份 30g、能量 120kcal、蛋白质 24g、碳水 3g、脂肪 1.5g”，或“加一个常用食物：……每100g……”；四项齐全时会自动结构化（每100g数据按每份100g处理），不需要“记住”字样；缺少项目时会先追问。同一种食材累计出现在至少两餐时，应用会在常用食物区给出候选卡片，只有你点“加入常用食物”后才会保存；来自模型估算的候选会标注“建议核对包装”。品牌也会参与匹配。</p><h2>记一餐时引用过去的一餐</h2><p>记录一餐时可以直接写“和 10 月 20 日午餐一样”或“照旧/和上次晚餐一样”。分析时会从最近 90 天的餐食记录里找到那一餐，整份复制食材与分量，再按当前食材库重新计算营养；记录详情会显示“复制自某天某餐”。同一天有多餐或找不到时会先追问，不会猜。复制后仍可在记录里微调分量。</p><h2>记忆怎么更新</h2><p>首页对话和每次分析都会自动更新记忆：对话里明确陈述的长期信息（偏好、条件、记法、补剂标签）会直接保存，临时状态写入带期限的短期记忆；分析餐食或训练时，记录原文里明确写出的补剂标签或长期偏好也会自动提取。每条自动记忆都必须有你的原话或记录原文作为依据，数字也必须出现在依据中；记录详情会显示“分析时自动记住”，可在“我的档案”查看、修改或撤销。明确表达的训练、饮食偏好会自动保存。已确认的动作重量、组数和次数会形成持续更新的训练参照；同款餐食在至少两天出现后，自动记住食材和最近分量。可在“我的档案”查看依据、修改或停用。手动改写后由你管理，系统不覆盖；停用后不会因新记录自动恢复。这些参照参与后续分析，但不是固定训练目标，也不会直接替你新增摄入。</p><p>“我的档案”的长期信息按主题分组（饮食与环境、记录习惯与记法、沟通偏好、训练规则、健康限制、其他）；同一主题再次保存会更新原条目而不是新建。“我的档案”分为长期信息、常用食物与补剂、训练参照与常吃餐食、最近状态和待验证判断。你可以添加、编辑、停用或撤销；近期状态可以设置结束日期。模型从记录提出的状态带“待确认”，推断保留判断标记。修改依据后，相关记忆会标为过期，需重新确认。</p><p>“我的档案”右上角的“整理记忆”会先自动完整备份，再删除失效的自动训练参照、过期或失效的状态/判断，停用与常用食物重复的营养标签，并合并完全重复的记忆；训练参照默认只显示 8 条，可展开全部。整理不会动你的原始记录。对话中的你自己的话可以点“记到档案”，确认内容和时间后保存。新建对话只清空当前对话上下文，历史消息保留在本地导出中，个人档案和记录不变。</p>
+<h2>日历、动作与首页对话</h2><p>首页日历固定在聊天区顶部（不再随聊天滚动），默认一周，可左右滚动、切换前后周或回到今天；“展开月历”可按月浏览。点击日期打开当天记录，返回首页保留浏览位置。没有记录的日期显示“暂无记录”。</p><p>“趋势 → 训练表现”按标准动作名集中展示。哑铃动作统一按单只重量、杠铃与史密斯按报告总重、器械按器械标重统计，同一动作不再按口径拆成多份；哑铃肩推统一按坐姿统计；原文明确写“总重/双手合计”时保留总重。动作按胸、背、肩、腿、核心分区显示；点击“整理动作名称”可统一同义名称、手动指定计重口径、归档或取消归档动作、删除手动归类。删除训练记录可在训练表现表格行末点删除，在“记录”页勾选“显示已移除的记录”可恢复。改名后点击“保存此项”，或在底部点击“保存全部并关闭”；成功后显示“已保存”，失败原因会留在弹窗中。手动名称优先保留。轮次、递减档位和单手口径在组数据中保留。歧义动作需要你指定归类。</p><p>在首页直接说“以后每次最多练60分钟”或“更正一下……”，助理会按你的明确表达更新记忆；保存成功后显示回执，可撤销。首页粘贴训练日志只作讨论，点击“去记训练”才入档；不会直接改变训练进度。“本周复盘”由你点击触发，输出总结、滚动计划和调整重点。</p><p>“我的档案 → 个人执行规则”可查看和编辑完整训练、恢复与沟通规则。历史身高、体脂和既往不适只作参考，近期有日期的实际记录优先。</p><h2>补记日期与按日查看</h2><p>原文以“2026.10.20”“10月20日”或“昨天午餐”注明实际日期时，保存或补充记录后自动归到发生日。没有具体时刻时暂记当天12:00，并在详情标注。手动选择的日期优先保留。首页最近七天的日期可以点击，进入当天记录；记录页也可直接选日期或清除筛选。</p><h2>常用食物与补剂</h2><p>蛋白粉、肌酸等长期复用的包装食品，可以在“我的档案 → 常用食物与补剂”里添加：填写名称、品牌口味（可选）、每份克数和每份的能量/蛋白质/碳水/脂肪。之后分析餐食时，只要食材名称与它一致，营养就按包装标签在本地计算，并在记录里注明来源。也可以在首页直接说“记住我的补剂是……每份 30g、能量 120kcal、蛋白质 24g、碳水 3g、脂肪 1.5g”，或“加一个常用食物：……每100g……”；四项齐全时会自动结构化（每100g数据按每份100g处理），不需要“记住”字样；缺少项目时会先追问。同一种食材累计出现在至少两餐时，应用会在常用食物区给出候选卡片，只有你点“加入常用食物”后才会保存；来自模型估算的候选会标注“建议核对包装”。品牌也会参与匹配。</p><h2>记一餐时引用过去的一餐</h2><p>记录一餐时可以直接写“和 10 月 20 日午餐一样”或“照旧/和上次晚餐一样”。分析时会从最近 90 天的餐食记录里找到那一餐，整份复制食材与分量，再按当前食材库重新计算营养；记录详情会显示“复制自某天某餐”。同一天有多餐或找不到时会先追问，不会猜。复制后仍可在记录里微调分量。</p><h2>记忆怎么更新</h2><p>首页对话和每次分析都会自动更新记忆：对话里明确陈述的长期信息（偏好、条件、记法、补剂标签）会直接保存，临时状态写入带期限的短期记忆；分析餐食或训练时，记录原文里明确写出的补剂标签或长期偏好也会自动提取。每条自动记忆都必须有你的原话或记录原文作为依据，数字也必须出现在依据中；记录详情会显示“分析时自动记住”，可在“我的档案”查看、修改或撤销。明确表达的训练、饮食偏好会自动保存。已确认的动作重量、组数和次数会形成持续更新的训练参照；同款餐食在至少两天出现后，自动记住食材和最近分量。可在“我的档案”查看依据、修改或停用。手动改写后由你管理，系统不覆盖；停用后不会因新记录自动恢复。这些参照参与后续分析，但不是固定训练目标，也不会直接替你新增摄入。</p><p>“我的档案”的长期信息按主题分组（饮食与环境、记录习惯与记法、沟通偏好、训练规则、健康限制、其他）；同一主题再次保存会更新原条目而不是新建。“我的档案”分为长期信息、常用食物与补剂、训练参照与常吃餐食、最近状态和待验证判断。你可以添加、编辑、停用或撤销；近期状态可以设置结束日期。模型从记录提出的状态带“待确认”，推断保留判断标记。修改依据后，相关记忆会标为过期，需重新确认。</p><p>“我的档案”右上角的“整理记忆”会先自动完整备份，再删除失效的自动训练参照、过期或失效的状态/判断，停用与常用食物重复的营养标签，并合并完全重复的记忆；训练参照默认只显示 8 条，可展开全部。整理不会动你的原始记录。对话中的你自己的话可以点“记到档案”，确认内容和时间后保存。新建对话只清空当前对话上下文，历史消息保留在本地导出中，个人档案和记录不变。</p>
 <h2>数据导出和恢复</h2><p>“连接与数据 → 导出可读资料”生成 Markdown、JSON 和原始照片。“保存完整备份”还保留对话、修订历史、记忆与配置；模型密钥不在备份里。恢复时会先在本地 <code>vault/backups</code> 保存当前档案，再恢复选择的备份，保留本机收件箱路径。</p><p>主档案：<code>~/Library/Application Support/BodyJournal/vault</code>。不要直接把运行中的数据库放进 iCloud。完整备份上限 512 MB，大档案可使用可读导出。备份包含健康资料，请放在自己控制的位置。</p>
 <h2>常见情况</h2><ul><li><strong>手机显示保存成功，Mac 没出现：</strong>检查两端的 iCloud Drive 同步、收件箱是否一致；在 Mac 点击同步，展开同步提示查看原因。</li><li><strong>显示等待附件：</strong>原文件还没同步完整，应用会重试；不会先把残缺记录计入统计。</li><li><strong>模型断流或额度不足：</strong>原始记录和问题都保留。重新连接或稍后重试，应用不会自行启用另一个付费渠道。</li><li><strong>营养值偏离直觉：</strong>查看食材是生重还是熟重、估计分量和油量；未匹配食材按同类食品估算计入，补充标签或分量后可修正。</li><li><strong>想先体验：</strong>使用项目的“查看示例.command”，窗口会标明独立示例档案。</li></ul>
 <p class="note">已完成本地数据与桌面流程测试。真实 ChatGPT / DeepSeek 调用需你完成连接后测试；iPhone 拍照、离线保存与跨设备同步仍需实机核对。应用为当前 Mac 的本地开发构建，尚未进行 Apple Developer ID 公证。</p>

diff --git a/src/ui/App.tsx b/src/ui/App.tsx
@@ -40,8 +40,8 @@ export function App(){
   <div className="workspace"><header className="topbar"><span>{new Intl.DateTimeFormat('zh-CN',{month:'long',day:'numeric',weekday:'long'}).format(new Date())}</span><div><button className="icon-button" aria-label="检查手机同步" title="检查手机同步" onClick={()=>run<Snapshot['sync']>('sync').then(r=>setToast(r.errors.length?`有 ${r.errors.length} 条导入问题，已在页面上方列出；原文件保留。`:`同步检查完成，新增 ${r.imported} 条，${r.pending} 条等待附件。`)).catch(()=>{})}><RefreshCw size={17}/></button><button className="button primary small-button" onClick={()=>setAdd('note')}><Plus size={16}/>记一笔</button></div></header>
   {snapshot.sync.errors.length>0&&<div className="sync-notice" role="alert"><strong>手机记录尚未全部导入</strong><span>原始文件仍在收件箱。修正后会自动重试。</span><details><summary>查看 {snapshot.sync.errors.length} 项原因</summary>{snapshot.sync.errors.map((error,i)=><p key={i}>{error}</p>)}</details><button className="text-button" onClick={()=>setPage('settings')}>查看收件箱设置</button></div>}
   {uncertainTimes.length>0&&<div className="sync-notice time-notice"><strong>{uncertainTimes.length} 条旧记录已恢复，发生时间待确认</strong><span>旧版快捷指令漏存了时间，暂用文件保存时间；趋势中的日期也为暂定。</span><button className="text-button" onClick={()=>setSelected(uncertainTimes[0].id)}>核对记录时间</button></div>}
-  {page==='assistant'&&<div className="assistant-layout"><section className="chat-pane"><div className="chat-scroll"><div className="assistant-heading"><div><span className="leaf-mark"><Leaf size={19}/></span><h1>{messages.length?'一起理清最近的状态':'今天，给身体留一点线索。'}</h1><p>训练、饮食和感受，慢慢拼出属于你的答案。</p></div><button className="icon-button" title="新对话" aria-label="新对话" onClick={()=>run('chat:new').catch(()=>{})}><NotebookPen size={18}/></button></div>
-  <JournalCalendar records={snapshot.records} zone={zone} value={calendar} onChange={setCalendar} onSelect={date=>{setRecordDate(date);setFilter('all');setSearch('');setShowDeleted(false);setPage('records');}}/>
+  {page==='assistant'&&<div className="assistant-layout"><section className="chat-pane"><JournalCalendar records={snapshot.records} zone={zone} value={calendar} onChange={setCalendar} onSelect={date=>{setRecordDate(date);setFilter('all');setSearch('');setShowDeleted(false);setPage('records');}}/><div className="chat-scroll"><div className="assistant-heading"><div><span className="leaf-mark"><Leaf size={19}/></span><h1>{messages.length?'一起理清最近的状态':'今天，给身体留一点线索。'}</h1><p>训练、饮食和感受，慢慢拼出属于你的答案。</p></div><button className="icon-button" title="新对话" aria-label="新对话" onClick={()=>run('chat:new').catch(()=>{})}><NotebookPen size={18}/></button></div>
+  
   {!messages.length&&<><div className="conversation-starters"><p>可以从一个具体的问题开始</p>{['最近几周，我的训练表现有什么变化？','结合已有的饮食记录，有什么值得调整？','把我的近期状态和目标一起梳理一下。'].map((q,i)=><button key={q} onClick={()=>{setQuestion(q);input.current?.focus();}}><span>{q}</span><ArrowUpRight size={17}/></button>)}</div>{!active.length&&<div className="first-step"><BookOpen size={22}/><div><strong>先放进第一条记录</strong><p>已有的训练笔记可以直接粘贴进来。先记下一些真实信息，回答才会逐渐具体。</p><button className="text-button" onClick={()=>setHistoryImport(true)}>导入训练笔记</button></div></div>}</>}
   {messages.map((m,i)=><article key={m.id} className={`message ${m.role}`}><div className="message-author">{m.role==='assistant'?<><Brand/><strong>身体手记</strong><span>{m.provider==='deepseek'?'DeepSeek':'ChatGPT'}</span></>:<><strong>你</strong><button className="text-button" onClick={()=>run<Partial<Memory>>('chat:remember',{id:m.id}).then(setMemory).catch(()=>{})}>记到档案</button></>}</div>{m.stale&&<div className="stale-label">依据中的记录已修改，这份回答需要重新分析。</div>}{m.status==='failed'?<div className="failed-answer"><p>{m.error||'这次回答没有完成。'}</p><button className="text-button" disabled={busy} onClick={()=>{const q=messages.slice(0,i).reverse().find(x=>x.role==='user');if(q)send(q.text);}}>重新提问</button></div>:m.status==='streaming'&&!stream[m.id]?<div className="thinking"><span/><span/><span/>正在结合你的记录</div>:<RichText text={m.status==='streaming'?stream[m.id]??'':m.text} onSource={source}/>}{m.status==='complete'&&m.memoryReceipt&&<div className="memory-receipt" role="status"><strong>{m.memoryReceipt.undone?'本次记忆更新已撤销':`已${m.memoryReceipt.changed.every(c=>!c.after.active)?'停用':m.memoryReceipt.changed.some(c=>c.before)?'更新':'记住'} ${m.memoryReceipt.changed.length} 条记忆`}</strong><details><summary>查看内容</summary>{m.memoryReceipt.changed.map(c=><p key={c.id}>{c.after.text}</p>)}</details>{!m.memoryReceipt.undone&&<button className="text-button" onClick={()=>run('chat:undoMemory',{id:m.id}).catch(()=>{})}>撤销本次更新</button>}</div>}{m.status==='complete'&&m.trainingDraft&&<div className="training-draft-link"><p>这段训练尚未由首页对话入档。</p><button className="button secondary" onClick={()=>{setDraftText(m.trainingDraft!);setAdd('training');}}>去记训练</button></div>}</article>)}<div ref={end}/></div>
   <div className="composer-area">{!connected&&<button className="connection-prompt" onClick={()=>setPage('settings')}><span className="connection-dot"/><span>先连接 AI，记录可以照常保存。</span><ArrowUpRight size={15}/></button>}<div className="composer"><textarea ref={input} aria-label="向健康助理提问" rows={2} placeholder="最近练得怎么样？今天这种状态适合怎么安排？" value={question} onChange={e=>setQuestion(e.target.value)} onKeyDown={e=>{if(e.key==='Enter'&&!e.shiftKey&&!e.nativeEvent.isComposing){e.preventDefault();send();}}}/><div className="composer-bottom"><span>{snapshot.settings.provider==='chatgpt'?'ChatGPT 订阅':'DeepSeek API'}{busy&&analysisId?' · 正在整理记录':''}</span>{busy?<button className="send-button" aria-label="取消分析" onClick={()=>run('chat:cancel').catch(()=>{})}><Square size={16}/></button>:<button className="send-button" aria-label="发送问题" disabled={!question.trim()} onClick={()=>send()}><ArrowUp size={19}/></button>}</div></div><div className="composer-caption"><span>只使用相关记录；信息不足时会继续问你。</span>{snapshot.conversationStart&&<button className="text-button" onClick={()=>setShowHistory(!showHistory)}>{showHistory?'回到当前对话':'查看历史对话'}</button>}</div></div></section>

diff --git a/README.md b/README.md
@@ -5,7 +5,7 @@
 
 > 本地优先的个人健康 AI 助理。iPhone 随手记录，通过 iCloud 同步；Mac 保存持续更新的训练、饮食、体重腰围和生活状态档案。默认只有你点击分析或提问时才调用 AI。
 
-当前版本 **v0.1.18**（2026-10-27）。这是一个个人项目：为个人使用而写，公开出来供参考和自用。不是商业产品，完成的是本地开发签名，没有 Apple Developer ID 公证，也不是 App Store 发行版。
+当前版本 **v0.1.19**（2026-10-27）。这是一个个人项目：为个人使用而写，公开出来供参考和自用。不是商业产品，完成的是本地开发签名，没有 Apple Developer ID 公证，也不是 App Store 发行版。
 
 ![助理页面](evidence/assistant.png)
 

diff --git a/docs/验证记录.md b/docs/验证记录.md
@@ -54,3 +54,8 @@ npm run test:ui
 - 常用食物带包装营养数字时可直接自动保存；如果给的是每100g数值，按每份100g换算。
 - 79 项自动测试通过（新增“加常用食物无需记住字样”回归测试）。
 - v0.1.18：进一步放宽到“带每100g/每份/每勺等标签特征的营养数据”也可自动保存，避免模型把常用食物表述为长期事实时被误拦。
+
+## v0.1.19 首页日历布局
+
+- 首页日历从聊天滚动区内部移到聊天区顶部固定显示，消息在日历下方滚动，解决滚动时日历悬在消息中间遮挡内容的问题；页面标题与对话滚动区随聊天滚动。
+- 桌面冒烟与五页截图通过。
